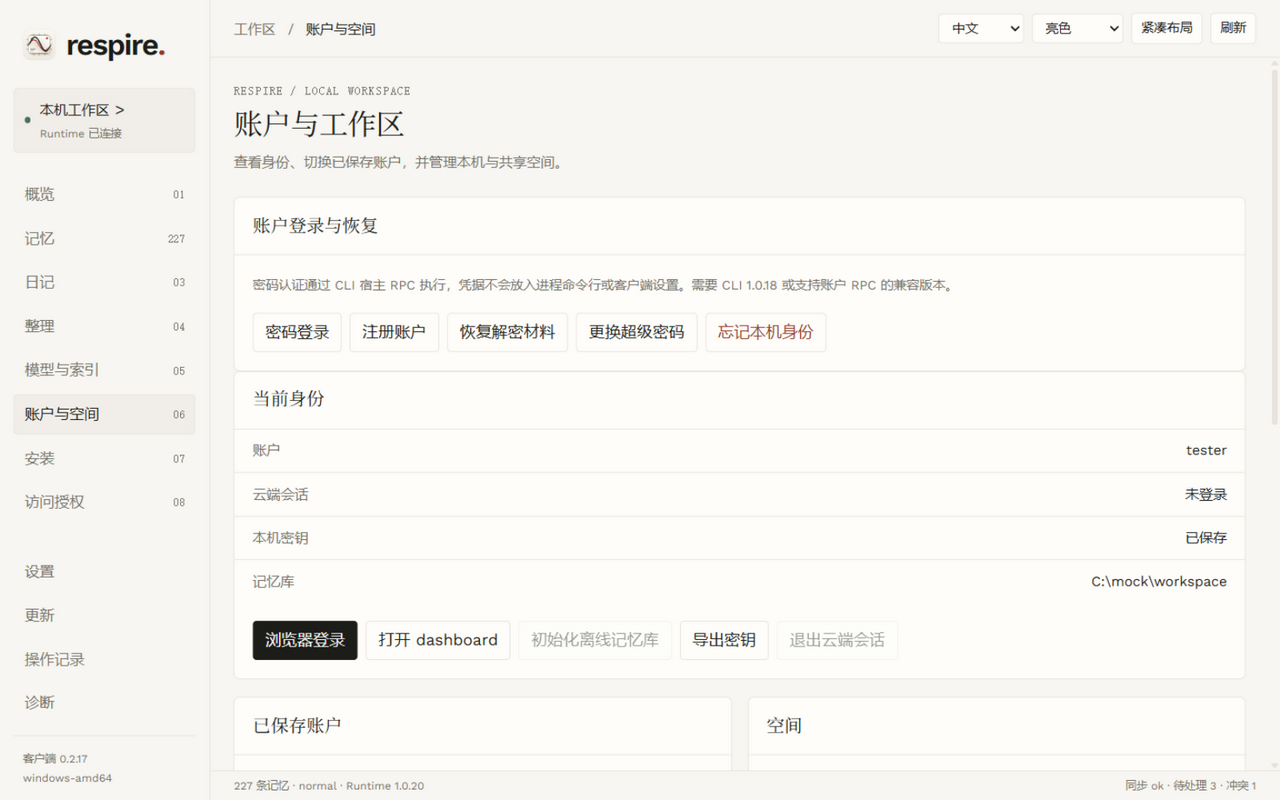
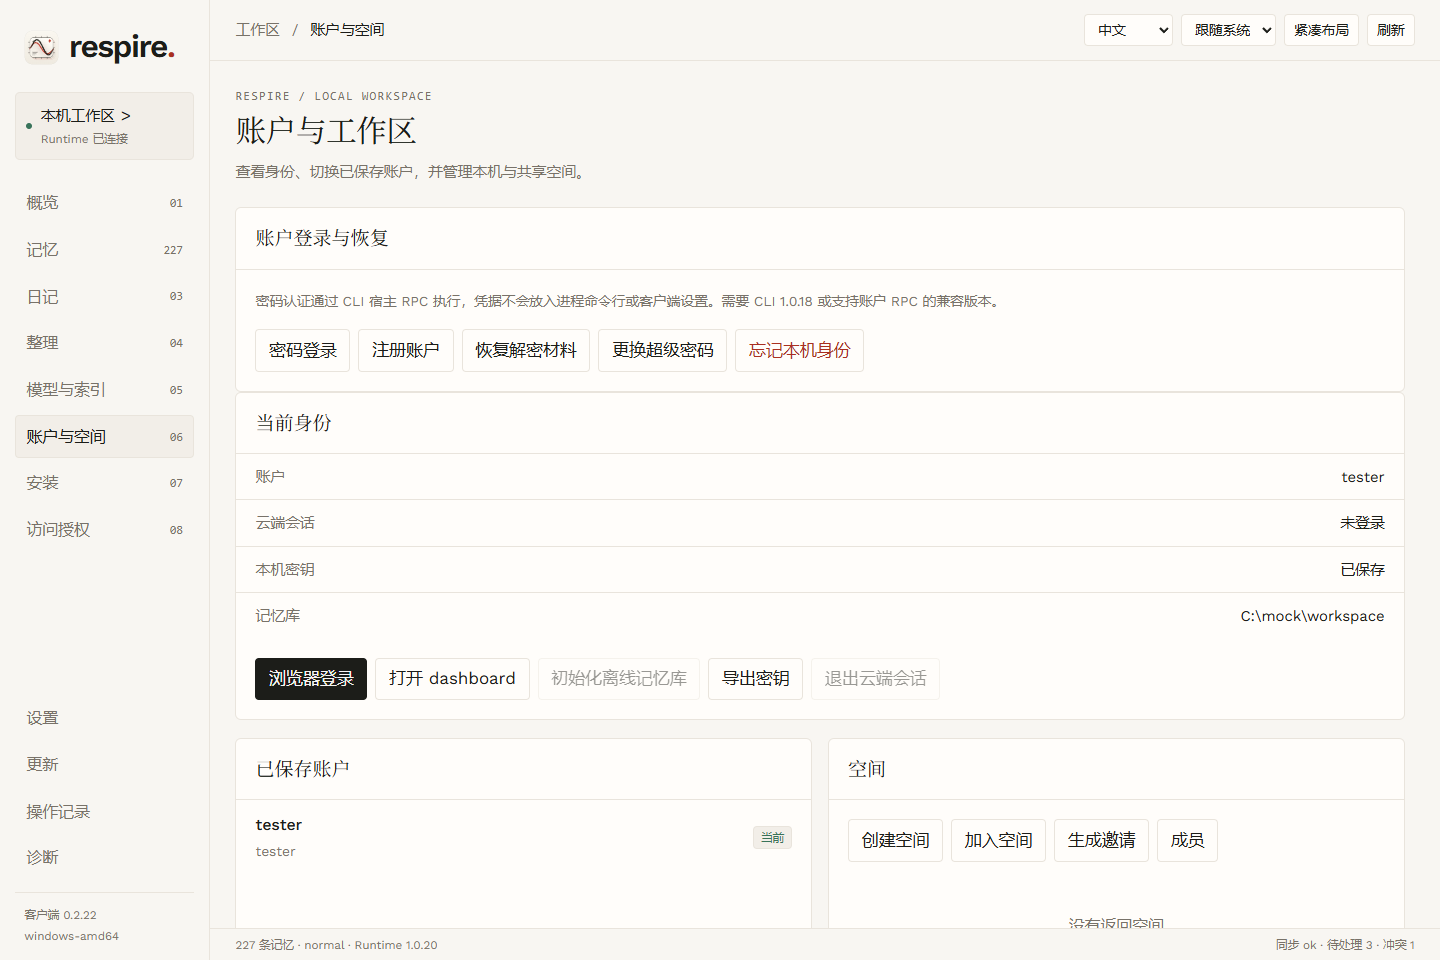
Document Client 2 pages and desktop-first installation
Update page screenshots to the 0.2.22 frontend with simulated data, correct the Codex preview claim, and clarify page controls and platform limits. Put the desktop client first in the Windows guide.

The audit report records the release revision, mock screenshot boundary, and remaining native checks.

diff --git a/docs/client.md b/docs/client.md
@@ -14,7 +14,7 @@ Download a matching application from [client releases](https://github.com/risens
 | Organize | Inspect grouping suggestions, similar entries and structural audit; generate, edit, copy, preview and apply a validated local move plan; preview suggestions individually or together. Configure a service to preview or execute AI organization by item limit, subtree or entire library. |
 | Models & Index | Select download source, prepare or download weights, cancel work or uninstall models; select an installed weight and engine, install NPU providers, probe inference, prepare or rebuild the index, configure recall, and run recall checks and a nine-round benchmark. Weights can be downloaded again; applying an engine reloads the model and verifies inference, falling back to CPU on failure. |
 | Accounts & Spaces | Browser or password login, registration, recovery, super-password reset, offline initialization, key export and logout; switch accounts, inspect or migrate old accounts, configure server and sync, inspect conflicts, and create, join, switch or remove spaces and manage invitations and members. Password operations require a compatible CLI with account RPC; login accepts a two-step verification code. Revoke one member or all members. |
-| Install | Select and distribute an instruction mode, detect targets, inject or remove instructions, and prepare or install host plugins. The current UI offers file preview for Codex; applying it requires the preview revision. Changing instruction mode rewrites instructions for all enabled agents without changing plugins; disabling an agent removes its injected instructions but keeps its plugin. Some plugins require the host UI to finish installation. DSH instruction injection overwrites `~/.dsh/AGENTS.md` and removes a symlink at that path; inspect and back up the target first. |
+| Install | Select an instruction mode, detect targets, inject or remove instructions, and prepare or install host plugins. Changing instruction mode rewrites instructions for all enabled agents without changing plugins; disabling an agent removes its injected instructions but keeps its plugin. Some plugins require the host UI to finish installation. DSH instruction injection overwrites `~/.dsh/AGENTS.md` and removes a symlink at that path; inspect and back up the target first. |
 | Access Grants | Create, inspect and revoke read-only subtree grants, including inherited access. |
 | Settings | Change theme, layout, language, login startup, automatic Runtime connection and updates, channels, work and diary modes, and data directory; import/export memories, back up the database, import shared material, and import/export client settings. |
 | Updates | Check, download, cancel and apply client updates; check and install or update the CLI, or open release and mirror pages. With automatic updates enabled, the client can restart after downloading when no business operation is running. |
@@ -26,7 +26,7 @@ The graph displays up to 300 nodes per page, with cross-page relationships, zoom
 
 ## Screen walkthrough {#screen-walkthrough}
 
-These screenshots show Client 2 version 0.2.17 with sample data. They illustrate the layout, not a live account or the exact appearance of later releases.
+The page screenshots show the Client 2 0.2.22 frontend running in a browser with simulated data. Accounts, counts and task states are examples. The tray screenshot is from 0.2.17. These images illustrate the interface; they are not native acceptance results for each platform. Some interface text is still Chinese when English is selected.
 
 ### Overview and tray {#overview-and-tray}
 
@@ -42,13 +42,29 @@ The tray quick panel provides the same status at a glance, plus **Sync now** and
 
 In **Memories**, choose tree, list, cards or graph. Select an entry to read it, or choose **New memory** to write one. Directory filters work on loaded entries; use the library search to search beyond them. Inspect similar entries before choosing a parent, merging or proceeding without deduplication.
 
+In tree and list views, click a title to open the entry, or click elsewhere on the row to select it. Hold Ctrl (Command on macOS) to select multiple entries, or Shift to select a visible range. Once multiple entries are selected, use **Merge selected**. Library search returns at most 50 results.
+
+Directory filters include type, storage area, project and tags, with a sort control. Project and tag filters use exact matches. Use **Load more** when more entries are available; these filters apply only to loaded entries.
+
+After a deletion, the current page offers **Restore deleted memory**. If that control is no longer available, use a compatible CLI with the original ID to restore the entry. Permanently purging ciphertext cannot be undone.
+
 ![Memory tree and search](/client2/memories-en.png)
 
 Use **Diary** to navigate by month or day, search dates and open a fragment with its neighbors. Use the **Organize** page to review grouping, similarity and structure suggestions; preview a move plan before applying it. AI organization requires a configured service and sends the selected material to it.
 
+Diary search finds fragments from a query; choose **Expand** beside a result to read neighboring fragments. After editing a plan, preview it again. If the library changes after a preview, generate or validate the plan again. An AI plan preview does not apply changes; **AI organize & apply** submits changes after confirmation.
+
+![Diary calendar and fragments](/client2/diary-en.png)
+
+![Organization suggestions and move plan](/client2/organize-en.png)
+
 ### Models and index {#models-and-index}
 
 Open **Models & Index** to see model and index tasks. Choose a download source, prepare weights and select an available inference engine. The page also offers inference checks, index preparation, recall configuration and a nine-round benchmark. Weights are separate downloads; engine and provider availability depend on the installed Runtime and hardware.
+
+Download the required weights before selecting and applying an engine. Applying it reloads the model and checks inference; on failure, the client falls back to CPU. The Linux interface offers only the CPU engine, and the NPU installation button is available only on Windows. The page shows status and progress while downloads or index tasks run.
+
+The page also configures the quality-recall service, switches recall mode, schedules background indexing and recalculates vectors. A benchmark can stop after its current request returns. Uninstalling models removes the model files; download them again when needed.
 
 ![Model and index controls](/client2/models-en.png)
 
@@ -62,12 +78,33 @@ Open **Accounts & Spaces** to sign in, recover keys or initialize a new offline 
 
 On **Install**, inspect the target, select an instruction mode and enable an agent. Review the result, then finish any host-specific installation or hook approval in the agent. Disabling an agent removes injected instructions but keeps the plugin. Changing the mode rewrites instructions for enabled agents. Review the DSH path and back it up before injection. The [plugin pages](plugins/) explain each host.
 
+Choose **Details** beside an agent to inspect its destination and plugin information. Enabling an agent can change the destination file immediately, so review existing content first. The Install page in client 0.2.22 does not offer a Codex file preview.
+
+Some targets are initially collapsed; choose **Show … more** to see them. Instruction modes are normal, read-only and off. After selecting one, choose **Apply and rewrite enabled prompts**.
+
+![Instruction mode and agent list on the Install page](/client2/injection-en.png)
+
 Use **Access Grants** to inspect, create or revoke read-only access to a memory subtree, including inherited grants. An invitation or grant can convey access to data; share it only with trusted recipients.
+
+To create a grant, enter the subtree root ID and its tool or purpose. The grant includes descendants; after revocation, tools using that token can no longer read the granted scope.
+
+![Access Grants page](/client2/grants-en.png)
 
 ### Settings, updates and diagnostics {#settings-updates-and-diagnostics}
 
 Use **Settings** for appearance, language, startup, Runtime connection and data import or export. **Updates** manages the desktop and CLI separately; inspect their channels and download status before applying changes. **Operations** lists request IDs and session receipts, while **Diagnostics** shows connection health and can export diagnostics. Check diagnostic output before sharing it.
 
+If a write shows an unconfirmed result, choose **Query original request** in **Operations**, then check the corresponding page. Full receipts are not retained after the client restarts. In **Diagnostics**, you can run a check or choose a destination for an exported report.
+
+Settings also controls workspace mode, diary recording, fonts and reading typography. The interface language and CLI display language are configured separately. A client-settings backup does not contain memory keys; save memory exports and database backups separately.
+
+![Client settings page](/client2/settings-en.png)
+
+![Desktop client and CLI updates page](/client2/updates-en.png)
+
+![Operations page](/client2/operations-en.png)
+
+![Diagnostics page](/client2/diagnostics-en.png)
 
 ## Data and failure boundaries {#data-and-failure-boundaries}
 

diff --git a/.audit/report.md b/.audit/report.md
@@ -1,5 +1,34 @@
 # 文档审查报告
 
+## Client 2 0.2.22 补充审查
+
+本轮以 Client 2 发布标签 `v0.2.22` 的提交 `866e34c9daa89b9a86b6b9da1a5d8d021f62dd71` 为依据。客户端工作树另有未提交修改；这些修改没有作为发布功能写入文档。以下状态只覆盖本轮检查，不能替代各平台的原生验收。
+
+| 发现 | 处理与依据 | 仍需核验 |
+| --- | --- | --- |
+| 客户端指南声称 Codex 注入有界面预览。0.2.22 的安装页没有这一入口。 | 已修正中英文 `docs/client.md`；依据为发布版 `internal/desktop/frontend/pages/injection.js`。CLI 历史参考保留其版本范围。 | 没有执行真实宿主的注入。 |
+| 原有五组客户端截图来自 0.2.17，且缺少多个页面。 | 已补充 0.2.22 的 12 个页面，使用发布版前端和模拟数据；托盘图片仍来自 0.2.17。 | 模拟数据不验证 Runtime、真实账户或原生窗口。 |
+| Windows 安装页仍以 CLI 为主要路径。 | 中英文页面已将桌面客户端放在前面，并说明 Node.js 只用于下方的 CLI 路径。 | 未在新安装的 Windows 系统上执行完整安装。 |
+| 0.2.22 英文界面的部分文字仍为中文。 | 截图保留真实界面文字，并在客户端指南中注明。 | 客户端翻译需要在客户端仓库修复；本轮不修改该仓库。 |
+
+本轮逐页对照了发布版前端的页面入口、显示内容和操作代码。截图检查使用隔离的模拟接口，没有执行写入、登录或安装；下表不能证明这些操作在真实 Runtime 中全部成功。
+
+| 页面 | 主要源码 | 文档覆盖 |
+| --- | --- | --- |
+| 概览 | `pages/overview.js` | 状态、同步、Runtime 启停和跳转。 |
+| 记忆 | `memory/workspace.js`、`editor.js`、`tools.js`、`interactions.js` | 四种视图、筛选、检索、选择、编辑、合并和工具。 |
+| 日记 | `memory/diary.js` | 日历、日期浏览、片段搜索和相邻片段。 |
+| 整理 | `pages/organize.js` | 检查、方案预览和应用，以及 AI 服务的数据发送边界。 |
+| 模型与索引 | `pages/models.js`、`pages/recall.js` | 权重、引擎、索引、召回配置和基准测试。 |
+| 账户与空间 | `pages/accounts.js`、`authentication.js`、`space-members.js` | 登录、恢复、账户迁移、同步、空间和成员。 |
+| 安装 | `pages/injection.js`、`internal/desktop/inject.go` | 提示词模式、目标开关、插件和文件覆盖。 |
+| 访问授权 | `pages/grants.js` | 子树授权的创建、查看和撤销。 |
+| 设置 | `pages/settings.js`、`storage.js`、`ui/typography.js` | 外观、语言、启动、备份、目录和排版。 |
+| 更新 | `pages/settings.js` | 客户端和 CLI 的通道、检查和更新。 |
+| 操作记录 | `pages/settings.js` | 请求状态、回执和查询原请求。 |
+| 诊断 | `pages/settings.js` | 连接状态、检查和诊断导出。 |
+| 托盘 | `quickpanel.js`、`internal/desktop/app.go` | 快捷面板、同步、窗口和 Runtime 操作；沿用 0.2.17 的图片。 |
+
 状态：文档修改和指定检查已完成；未实测或仍需后续核验的事项见各条状态。以下发现记录审查时的问题，不表示修改后仍然存在。
 
 ## 补充：npm 包名与机器契约

diff --git a/docs/guides/windows-install.md b/docs/guides/windows-install.md
@@ -1,5 +1,16 @@
 # Installing rsrs on Windows
 
+## Recommended: install the desktop client {#install-the-desktop-client}
+
+The desktop client provides a graphical interface for getting started. Windows 10 or later and Microsoft Edge WebView2 Runtime are required.
+
+1. Open [Client 2 releases](https://github.com/risense-ai/respire-client2/releases/latest) and download the file for your processor: `respire-windows-amd64.exe` for x64 or `respire-windows-arm64.exe` for ARM64.
+2. Place the file in a permanent writable directory and run it. The desktop client does not require Node.js, npm, Go or Rust.
+3. If no Runtime is connected, open **Updates**, select **Install / update CLI**, and check the result. Desktop and CLI releases are separate, so a desktop download does not guarantee that a matching Runtime is available.
+4. Follow [Getting started](../getting-started.md#sign-in-or-create-a-local-library) to sign in or create a local library, connect an agent and save your first memory.
+
+The rest of this page covers the CLI alternative for terminal users.
+
 ## What rsrs is
 
 Respire, invoked as the `rsrs` command, is a local-first, end-to-end encrypted memory system shared across devices and AI applications. Memories written on one machine can be reused from another device or tool through encrypted synchronization. The CLI is a thin client that connects to a resident local runtime.
@@ -14,6 +25,8 @@ Respire, invoked as the `rsrs` command, is a local-first, end-to-end encrypted m
 The installed executable's help is the source of truth. Confirm the available commands and options with `rsrs --version`, `rsrs --help` and `rsrs prompt --json`.
 
 ## Prerequisites
+
+These prerequisites apply only to the CLI steps below; they are not required for the desktop client.
 
 - Node.js LTS, which includes npm.
 - One package manager: pnpm (recommended) or npm.

diff --git a/docs/getting-started.md b/docs/getting-started.md
@@ -13,11 +13,11 @@ You do not need Node.js, npm, Go or Rust to use the desktop app. Desktop and CLI
 
 ## Connect the Runtime {#connect-the-runtime}
 
-Open the client and check the connection indicator in the sidebar. The app can connect to a compatible local Runtime or prepare a matching CLI and its native libraries separately. If no Runtime is available, open **Updates**, choose **Install / update CLI**, and follow the displayed status. A missing release asset or incompatible version is reported in the client; see [Diagnostics](client.md#settings-updates-and-diagnostics) if it does not connect.
+On first launch, choose the interface language when prompted; you can change it later at the top right or in **Settings**. Then check the connection indicator in the sidebar. The app can connect to a compatible local Runtime or prepare a matching CLI and its native libraries separately. If no Runtime is available, open **Updates**, choose **Install / update CLI**, and follow the displayed status. A missing release asset or incompatible version is reported in the client; see [Diagnostics](client.md#settings-updates-and-diagnostics) if it does not connect.
 
 ![Desktop overview with Runtime and sync status](/client2/overview-en.png)
 
-The screenshot uses sample data from Client 2 version 0.2.17. Later versions can look different.
+The screenshot shows the Client 2 0.2.22 frontend with simulated data, not a real account. The interface and status can differ on your device.
 
 ## Sign in or create a local library {#sign-in-or-create-a-local-library}
 

diff --git a/docs/zh/getting-started.md b/docs/zh/getting-started.md
@@ -13,11 +13,11 @@
 
 ## 连接 Runtime {#connect-the-runtime}
 
-打开客户端后，查看侧栏的连接状态。客户端可以连接兼容的本机 Runtime，也可以单独准备匹配的 CLI 和原生库。如果没有可用的 Runtime，请打开“更新”，选择“安装 / 更新 CLI”，并查看页面显示的进度和结果。缺少发布文件或版本不兼容时，客户端会显示错误；无法连接时可查看[诊断说明](client.md#settings-updates-and-diagnostics)。
+首次打开客户端时，按提示选择界面语言；之后可以在右上角或“设置”中切换。接着查看侧栏的连接状态。客户端可以连接兼容的本机 Runtime，也可以单独准备匹配的 CLI 和原生库。如果没有可用的 Runtime，请打开“更新”，选择“安装 / 更新 CLI”，并查看页面显示的进度和结果。缺少发布文件或版本不兼容时，客户端会显示错误；无法连接时可查看[诊断说明](client.md#settings-updates-and-diagnostics)。
 
 ![桌面端概览及 Runtime、同步状态](/client2/overview-zh.png)
 
-截图使用 Client 2 0.2.17 版和示例数据。较新版本的界面可能不同。
+截图展示 Client 2 0.2.22 的前端，使用模拟数据，并非真实账户。实际界面和状态可能不同。
 
 ## 登录或创建本地记忆库 {#sign-in-or-create-a-local-library}
 
